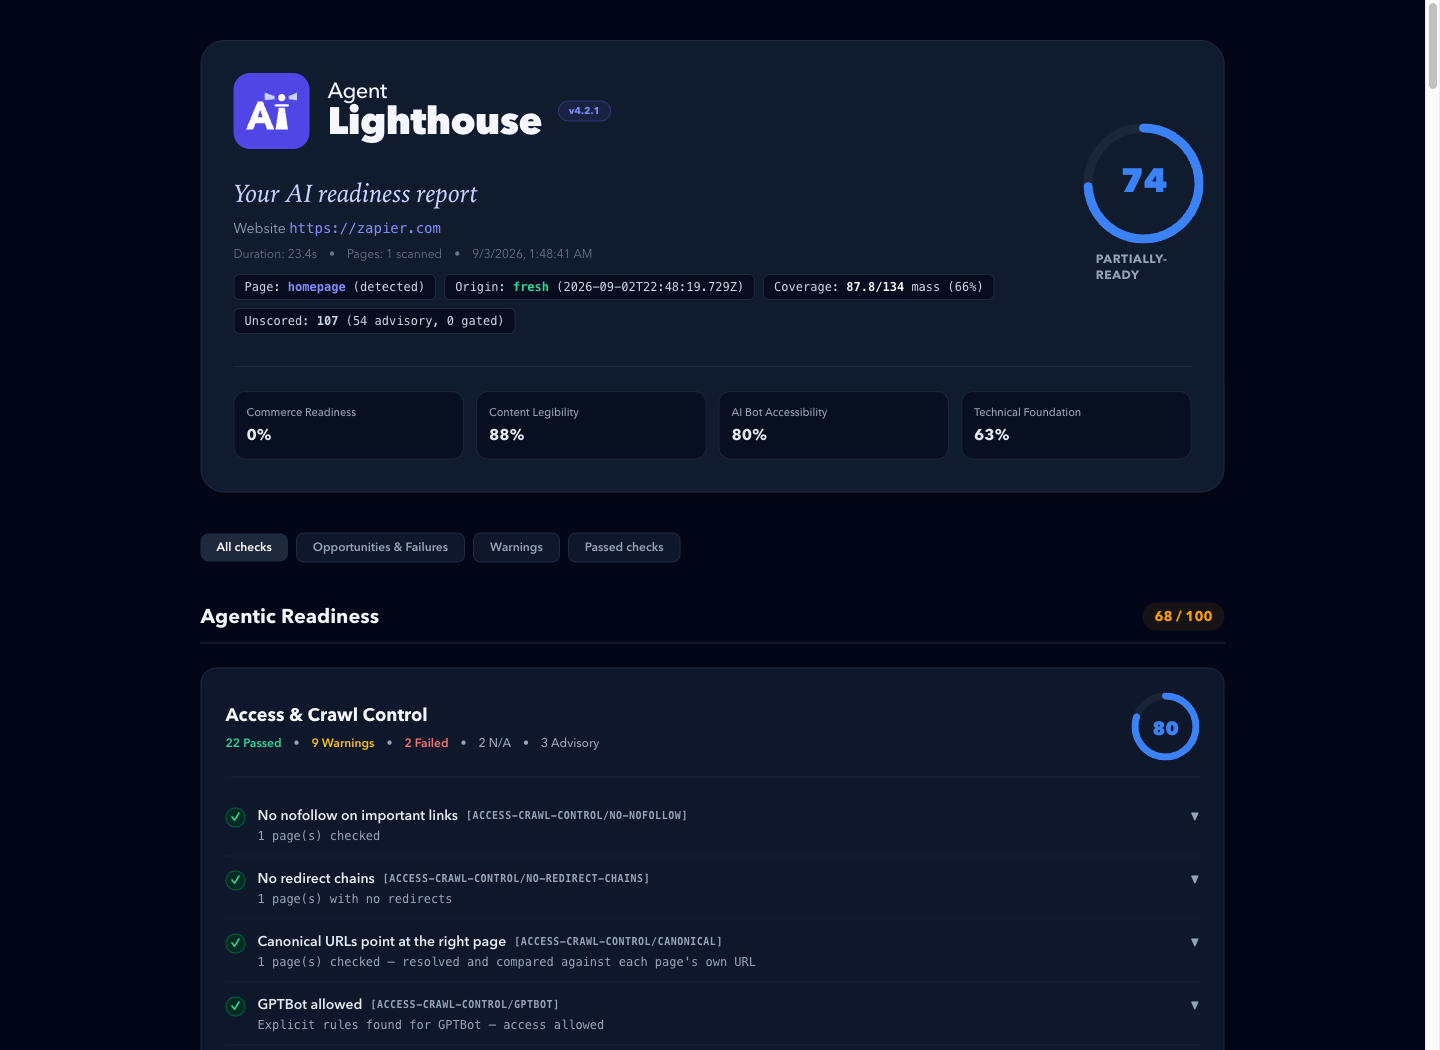
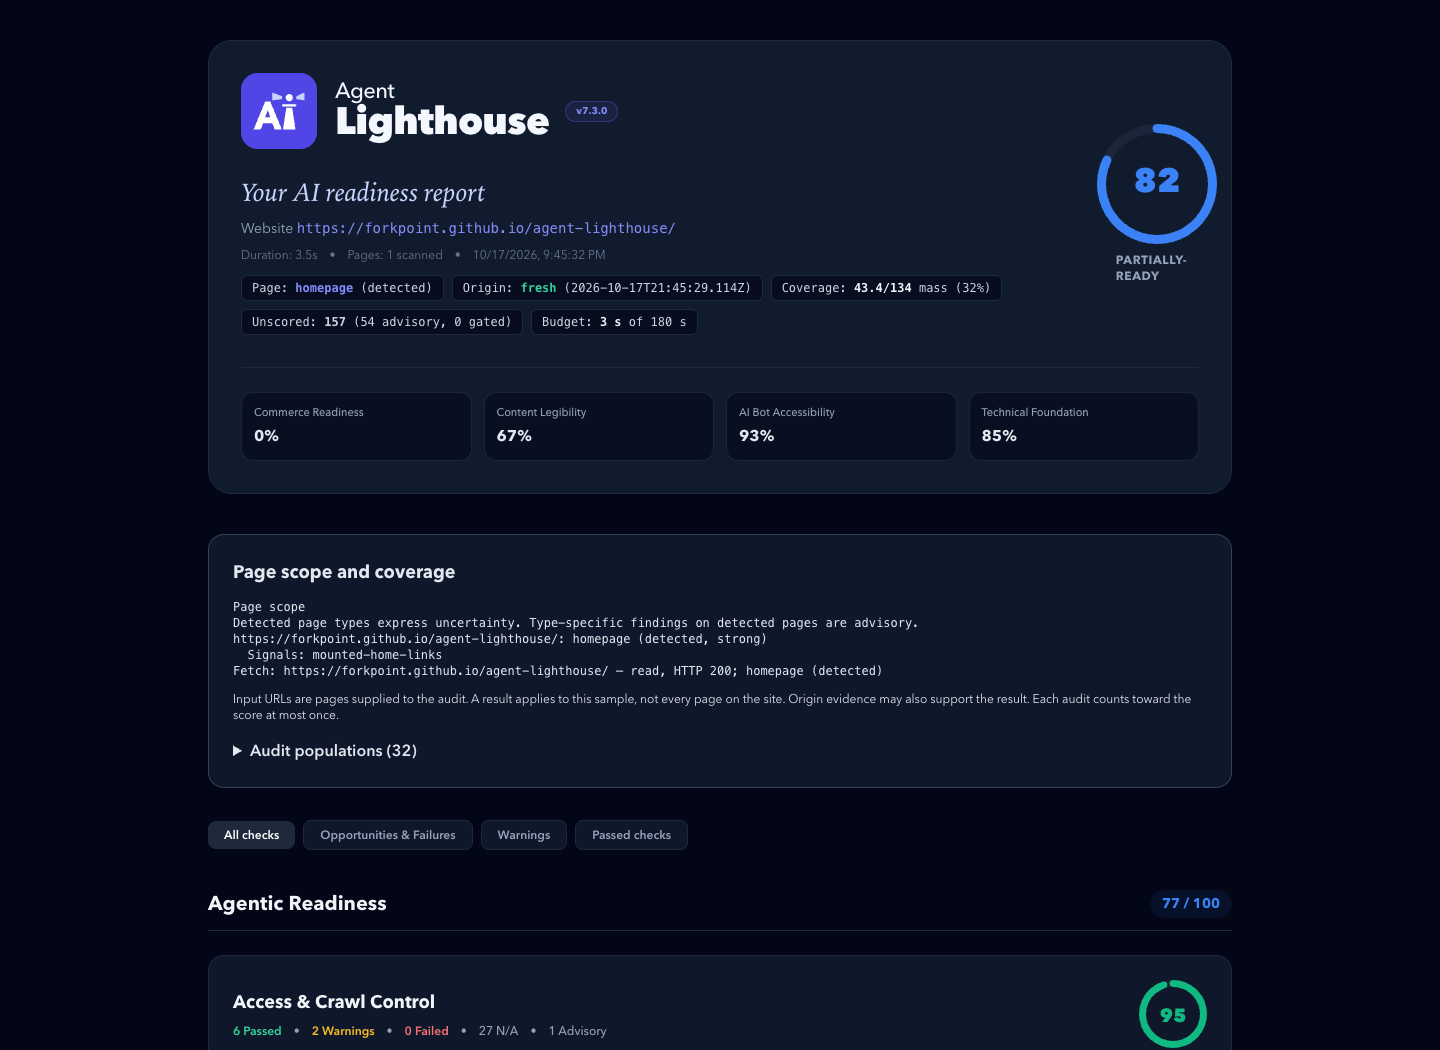
docs: fix the six points the docs review found
- The website MCP page lists the current page types and says the retired
  names are refused.
- CI runs check:audit-boundaries on the real audit tree.
- The action posts its PR comment when a score assertion fails too.
- The corpus test no longer refers to two removed fixtures.
- The README screenshot shows a current report of the project's own site,
  not a scanned site.
- The logger comment names the CLI's warn default.

diff --git a/packages/core/src/tests/real-page-corpus.test.ts b/packages/core/src/tests/real-page-corpus.test.ts
@@ -43,10 +43,6 @@ import {
  * Walls and shells are snapshotted alongside pages. A degenerate response is
  * where a vacuous `pass` comes from, so leaving those fixtures out would hide
  * exactly the class of claim this baseline exists to expose.
- *
- * Two fixtures read oddly on purpose, and `docs/evidence/corpus.md` says why:
- * `tirerack-com-soft-block-200` is an Akamai soft block classified as a page,
- * and `vercel-com-wall-200` is `text/markdown` parsed as HTML.
  */
 
 const registrations = Object.values(defaultConfig.audits).flat();

diff --git a/packages/core/src/logger.ts b/packages/core/src/logger.ts
@@ -24,7 +24,7 @@
  * The built-in output goes to sinks. The default sink writes to stderr, never
  * stdout: stdout carries the CLI's report and the MCP server's protocol. Each
  * sink has its own level and format. `LOG_LEVEL` (silent, error, warn, info,
- * debug, trace; default info) and `LOG_FORMAT` (text or json; default text)
+ * debug, trace; default info, and warn in the CLI) and `LOG_FORMAT` (text or json; default text)
  * set the default sink.
  *
  * Levels: `error` is a fault in the scanner; `warn` is something that changes

diff --git a/packages/website/src/content/mcp.md b/packages/website/src/content/mcp.md
@@ -31,7 +31,7 @@ If the tool does not appear, check the client's server logs and confirm it can r
 
 Use the [SDK guide](./sdk.md) for a Node.js or TypeScript application. You do not need an MCP client for that route.
 
-## Page purpose controls in v7
+## Page purpose controls
 
 The `audit_website` tool accepts optional `pageType` and `pages` fields:
 
@@ -45,8 +45,8 @@ The `audit_website` tool accepts optional `pageType` and `pages` fields:
 }
 ```
 
-Declare a type only when it matches the page's purpose. Supported types are `homepage`, `category`, `product`, `article`, `unknown`, and legacy `content`. The last two mean general content. Omit the type for detection; type-specific findings then stay advisory. The scan shares the SDK's validation and evidence rules.
+Declare a type only when it matches the page's purpose. Supported types are `homepage`, `category`, `product`, `article` and `general`. The retired names `unknown` and `content` are refused; use `general`. Omit the type for detection; type-specific findings then stay advisory. The scan shares the SDK's validation and evidence rules.
 
 The response includes `pageScope` when the scan records scope data. It contains page classification, fetch attempts, and separate result populations with their selected, input, and unread URLs. Advisory results do not change the score. Each audit still counts once. The programmatic `auditWebsite(url, { pageType, pages })` helper supports the same declarations.
 
-These controls belong to the v7 branch. See the [migration notes](../../../../docs/scoring.md#migration-from-6x) before moving a 6.x integration.
+Moving a 6.x integration? See the [migration notes](../../../../docs/scoring.md#migration-from-6x).

diff --git a/AGENTS.md b/AGENTS.md
@@ -44,6 +44,7 @@ pnpm test               # vitest, from the repo root only
 pnpm typecheck          # tsc --noEmit per package
 pnpm lint               # oxlint, type-aware
 pnpm check:dossiers     # registry <-> dossier agreement, both directions
+pnpm check:audit-boundaries # no audit makes its own network call
 pnpm check:requires     # each audit's `requires` matches what its source reads
 pnpm check:audit-map    # audit map <-> codebase & dossier agreement
 pnpm check:enums        # no string literal where an enum constant exists
@@ -229,10 +230,10 @@ Write for a reader, not for a researcher:
 
 ## Before you commit
 
-All eleven, in order:
+All twelve, in order:
 
 ```bash
-pnpm build && pnpm test && pnpm typecheck && pnpm lint && pnpm check:dossiers && pnpm check:requires && pnpm check:audit-map && pnpm check:enums && pnpm knip && pnpm check:retired-names && pnpm check:package-types
+pnpm build && pnpm test && pnpm typecheck && pnpm lint && pnpm check:dossiers && pnpm check:audit-boundaries && pnpm check:requires && pnpm check:audit-map && pnpm check:enums && pnpm knip && pnpm check:retired-names && pnpm check:package-types
 ```
 
 `check:dossiers`, `check:requires`, `check:package-types` and the type-aware

diff --git a/docs/architecture/audits.md b/docs/architecture/audits.md
@@ -359,7 +359,7 @@ Gatherers do. One layer issues requests, so it is the only layer that needs the 
 
 A gatherer with one consumer is still right: the fetch is visible to the scan and cacheable the moment a second consumer appears. That is how the OpenAPI family once reached seven identical copies of `getOpenApiSpec`.
 
-`pnpm check:audit-boundaries` parses every production `.ts` file under `packages/core/src/audits/`, helpers included, and rejects `ctx.fetch`, destructured or global `fetch`, fetcher imports and direct HTTP client imports. Scanning the whole tree keeps the gate complete without an import graph, so a network helper must live in `gatherers/`, never in a directory the gate does not read. CI does not run the script today; run it before committing audit changes.
+`pnpm check:audit-boundaries` parses every production `.ts` file under `packages/core/src/audits/`, helpers included, and rejects `ctx.fetch`, destructured or global `fetch`, fetcher imports and direct HTTP client imports. Scanning the whole tree keeps the gate complete without an import graph, so a network helper must live in `gatherers/`, never in a directory the gate does not read. CI runs it on every push.
 
 ---
 

diff --git a/docs/github-action.md b/docs/github-action.md
@@ -33,7 +33,7 @@ jobs:
 | `comment-on-pr`   | `"true"`    | Post `agent-lighthouse-report.md` as a PR comment.      |
 | `github-token`    | none        | Token for the comment. Without it no comment is posted. |
 
-- The comment is posted only on `pull_request` events, and only when the scan step succeeded. A failed assertion skips it.
+- The comment is posted only on `pull_request` events. It is posted when a `min-score` or `assert-category` check fails too, so the PR shows why the job failed.
 - The action runs `npx -y @forkpoint/agent-lighthouse`, so it always uses the latest published CLI, whatever ref of the action you pin.
 - The repository publishes no `v*` tags. To pin the action's own steps, use a commit SHA: `ForkPoint/agent-lighthouse@<sha>`.
 - For other flags, or to keep the reports as an artifact, run the CLI directly; see [In CI](./cli.md#in-ci).
